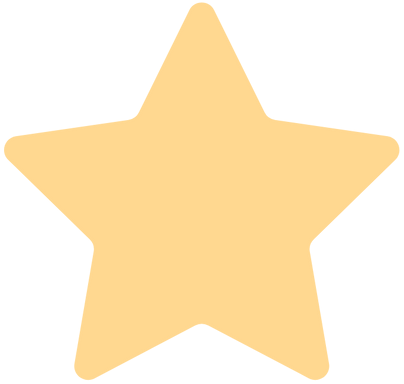
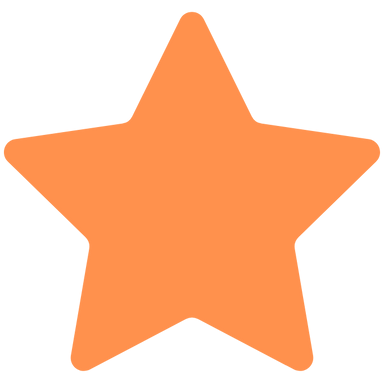
Added UI for QueryIQ chatbot

diff --git a/src/Components/QueryIQ.jsx b/src/Components/QueryIQ.jsx
@@ -1,52 +1,92 @@
 import React from 'react';
 import { useState } from 'react'
 import './QueryChat.css'
-
+import user from '../images/user.png'
+import Aretti from '../images/Arettis.svg'
 
 function QueryIQ() {
   const [prompt, setPrompt] = useState('')
-  const [response, setResponse] = useState('')
-
+  const [responses, setResponses] = useState([])
+  const [buffer, setBuffer] = useState(false);
 
 
   const sendPrompt = async (event) => {
     event.preventDefault();
+    setBuffer(true);
 
     try {
       const response = await fetch ('/Querychat', {
-        method: 'POST',
-        header: {
-        'Content-Type': 'application/json'
-      },
-        body: JSON.stringify({text: prompt})
-    });
+      method: "POST",
+      headers: {
+        "Content-Type": "application/json"
+    },
+    body: JSON.stringify({ text: prompt})
+});
 
     const data = await response.json()
-    setResponse(prevResponse => [...prevResponse, {prompt, data: data}])
-    setPrompt('')
+    console.log('API Response:', data); // Debugging log
+    setResponses((prevResponse) => [...prevResponse, {prompt, response: data.response}])
+    setPrompt('');
 
   }catch (error){
     console.log(error)
+  }finally {
+    setBuffer(false)
   }
   }
+
+    const handleKeyPress = (event) => {
+      if (event.key === 'Enter') {
+        sendPrompt(event);
+      }
+    }
 
   return (
     <>
       <div className = "full">
       <h1 style = {{fontSize: "45px", textAlign: "center"}}> QueryIQ</h1>
       <p style= {{paddingLeft: "5%", paddingRight:"5%", fontSize: "13px"}}>
-      QueryIQ, a state-of-the-art Retrieval-Augmented Generation (RAG) that provides businesses with an AI-powered chatbot that understands and responds to customer inquiries with remarkable accuracy.
-      QueryIQ is built with a deep understanding of your business-specific knowledge base, such as your company's unique products, services, documents and industry-specific handbook. 
-      This specialization delivers responses with not only with contextual precision, but highly relevant to your business needs.
+        QueryIQ, a state-of-the-art Retrieval-Augmented Generation (RAG) that provides businesses with an AI-powered chatbot that understands and responds to customer inquiries with remarkable accuracy.
+        QueryIQ is built with a deep understanding of your business-specific knowledge base, such as your company's unique products, services, documents and industry-specific handbook. 
+        This specialization delivers responses with not only with contextual precision, but highly relevant to your business needs.
       </p>
 
      <div className = "chat">
 
+    <div className = "chat-box">
+      {responses.map((res, index) => (
+        <div key = {index} className = "chat-message">
+          <div className = "rightChat">
+          <img className = "chaticon" src = {user} style = {{width: '3em'}}></img>
+          <p className = "botText"> {res.prompt}</p>
+          </div>
+
+          <div className = "leftChat">
+            <img className = "chaticon" src = {Aretti} style = {{width: '6em'}}></img>
+          <p className = "botText">{res.response}</p>
+          </div>
+        
+         </div>
+
+      ))}
+
+
+    </div>
      <input 
      className = "inputText"
      value = {prompt}
-     ></input>
-     <div className = "send-icon"></div>
+     onChange = {e => setPrompt(e.target.value)}
+     onKeyDown={handleKeyPress}
+     >
+     </input>
+
+     {buffer ? (
+      <div className = "buffer-icon">
+        {/* <img src = {buffericon}></img> */}
+      </div>
+     ) : (
+      <div className = "send-icon" onClick = {sendPrompt}></div>
+     )}
 
 
     </div> 

diff --git a/src/Components/QueryChat.css b/src/Components/QueryChat.css
@@ -9,34 +9,46 @@
 .chat {
   display: flex;
   align-items: center;
+  flex-direction: column;
   justify-content: center;
-  border: 1px solid white;
   height: 80%;
   width: 70%;
+  border: 1px solid lightgray;
+
+}
+
+.chat-box {
+  overflow-y: auto;
+  padding: 0px;
+  width: 100%;
+  height: 70vw;
+
+}
+
+.chat-message{
+  margin: 10px;
+  border-radius: 5px;
+  display: flex;
+  align-items: center;
+  flex-direction: column;
 }
 
 
-p {
-  font-size: 12px;
-  text-align: center;
-  margin-top: -15px
-
-}
 
 h3 {
   font-size: 15px;
 }
 
 .inputText {
+  margin-top: 5px;
   position: relative;
-  bottom: -260px;
   width: 95%;
   background-color: transparent;
   border: 1px solid lightgray;
   border-radius: 15px;
-  height: 5%;
+  height: 4em;
   color: lightgray;
-  margin-right: -4%
+  
 }
 
 .send-icon {
@@ -44,16 +56,63 @@ h3 {
   position: relative;
   background-size: contain;
   cursor: pointer;
-  width:20px;
-  left: -1%;
-  top: 260px;
+  width:5vw;
+  height: 5vh;
+  left: 45%;
+  top: -4.5%;
 }
 
-.spinner {
-  margin-top: 25%;
-  width: 150px;
-  height: 150px;
+.buffer-icon {
+  background: url('../images/Buffer.png') no-repeat center center;
+  position: relative;
+  background-size: contain;
+  cursor: pointer;
+  width:5vw;
+  height: 5vh;
+  left: 45%;
+  top: -4.5%;
   animation: spin 1s linear infinite;
+}
+
+.chat-box {
+  display: flex;
+  flex-direction: column;
+}
+
+.rightChat{
+  width: 90%;
+  text-align: left;
+  align-self: flex-end;
+  margin-left: 10%;
+  border-radius: 15px;
+  background-color: #436176;
+  display: flex;
+  align-items: center;
+  margin-bottom: 20px;
+  
+}
+
+
+
+.leftChat{
+  width: 90%;
+  text-align: left;
+  align-self: flex-start;
+  margin-left: 0%;
+  border-radius: 15px;
+  background-color: #436176;
+  display: flex;
+  flex-direction: column;
+  flex-direction: row;
+
+}
+
+.botText {
+  margin-top: 15px;
+}
+
+.chaticon {
+  padding: 2%;
 }
 
 @keyframes spin {

diff --git a/src/Components/Components.css b/src/Components/Components.css
@@ -79,6 +79,7 @@ h3 {
   gap: 15px;
   padding: -1%;
   margin-bottom:-10px;
+  color: #FF914D;
 }
 
 .ratingtext2 {
@@ -89,7 +90,7 @@ h3 {
   padding: -1%;
   margin-bottom:-10px;
   margin-top: -35px;
-
+  color: #FF914D;
 }
 
 .reviewinput {

diff --git a/src/App.css b/src/App.css
@@ -8,6 +8,14 @@ body, #root{
   width: 100vw;
   overflow: hidden;
   overflow-y: auto;
+  
+}
+
+.centered {
+  display: flex;
+  align-items: center;
+  justify-content: center;
+
 }
 
 header{

diff --git a/src/App.jsx b/src/App.jsx
@@ -76,6 +76,10 @@ function App() {
         {renderComponent()}
     </div>
 
+    <div className = "centered">
+    <h1> Toronto's 3 Michelin Star</h1>
+
+    </div>
     </div>
     
   )
